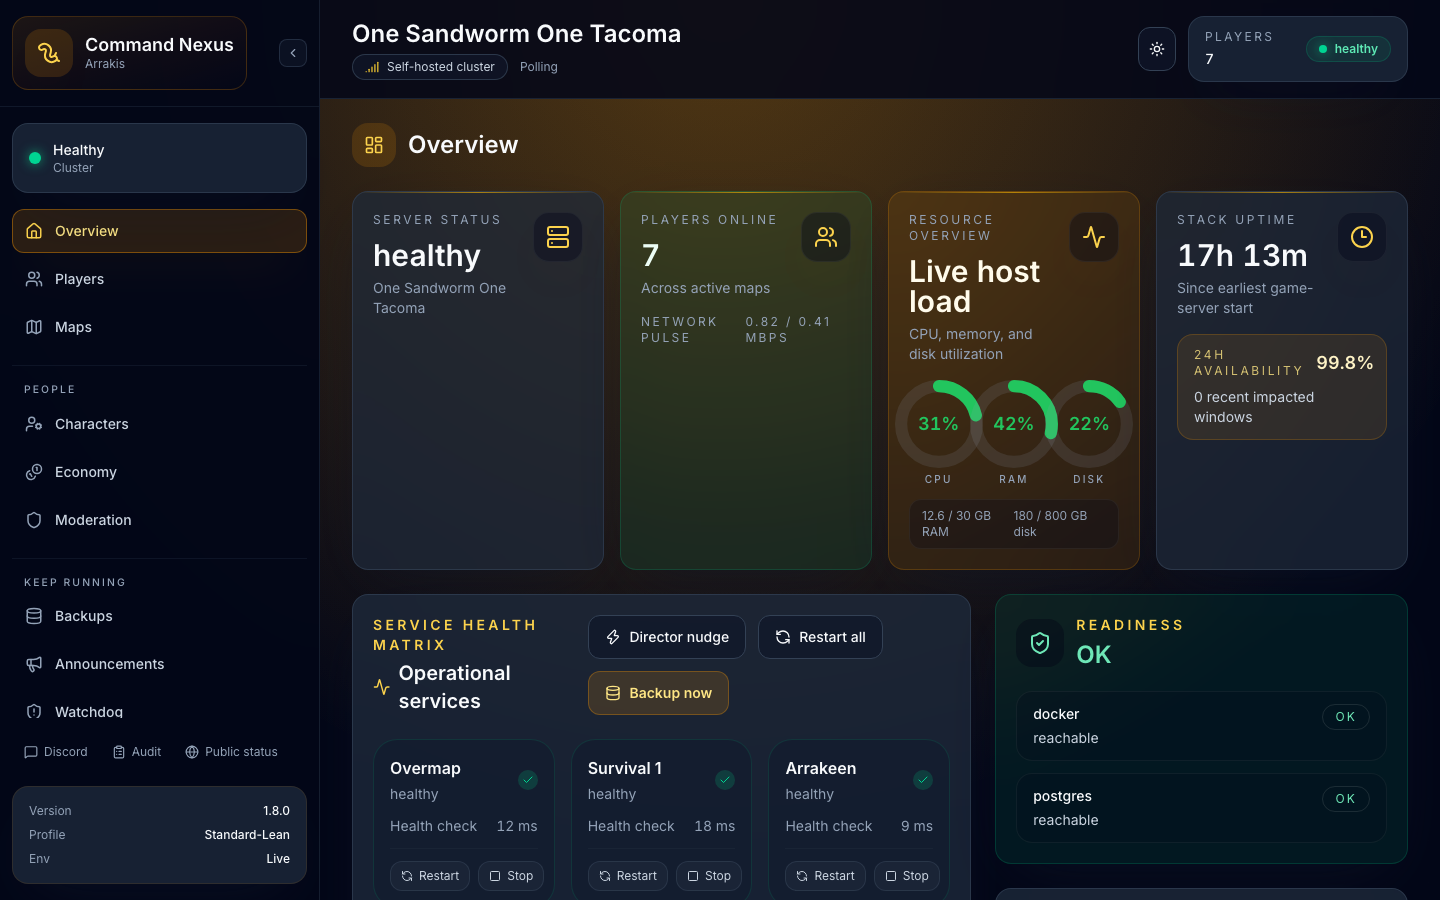
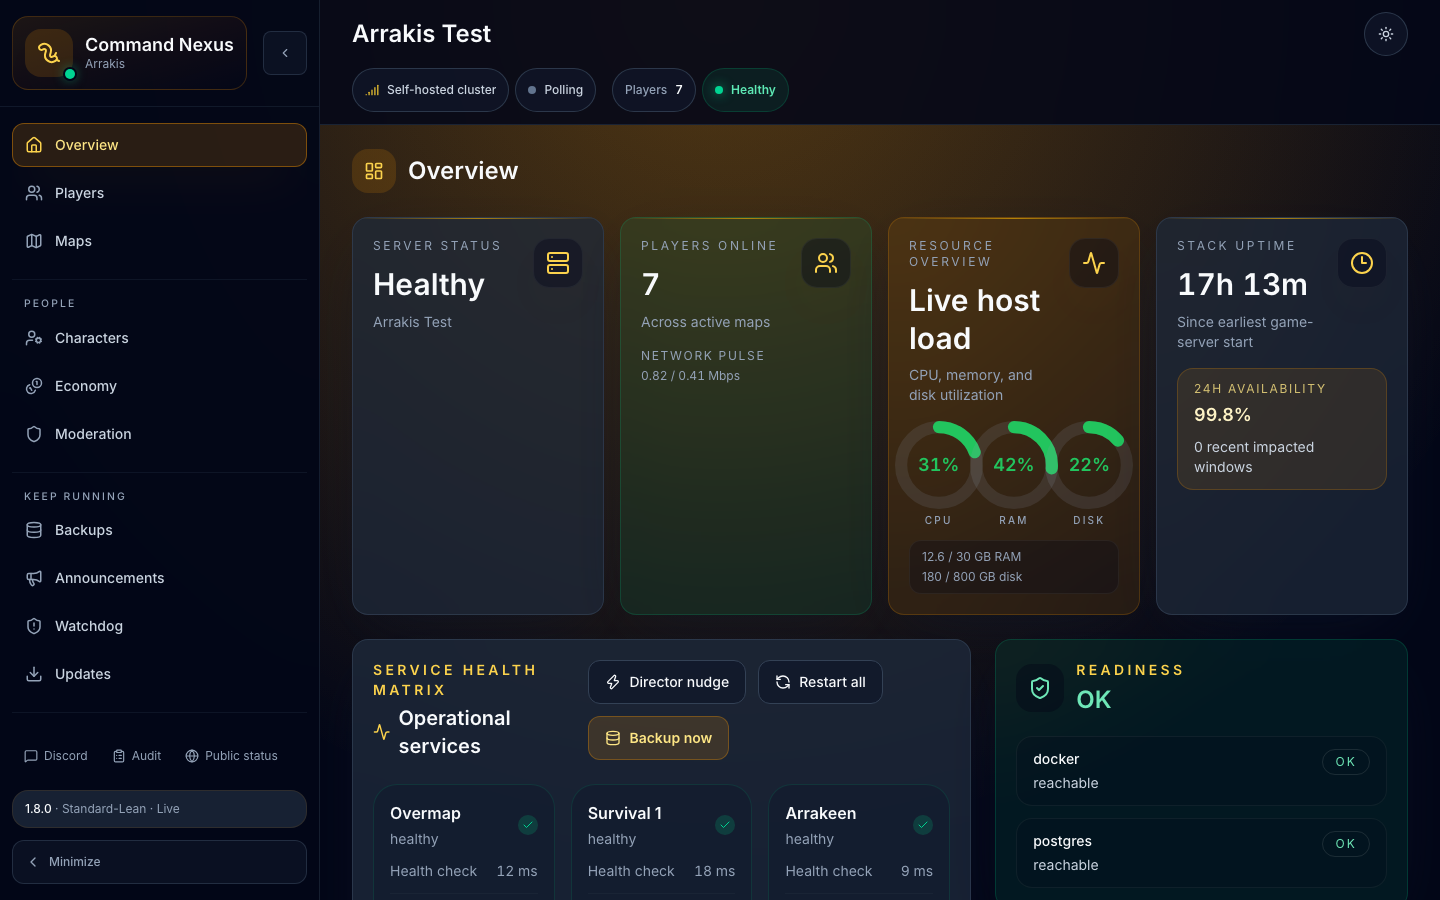
Remove machine-specific names from the public repo.
Taking a break now requires an offsite script path at install time instead of shipping a home directory, hostname, or offsite machine name. README and a Windows batch file document a generic Linux SteamCMD download.

diff --git a/dashboard/frontend/src/components/TakingABreakPanel.tsx b/dashboard/frontend/src/components/TakingABreakPanel.tsx
@@ -85,7 +85,7 @@ export function TakingABreakPanel() {
     setError(null);
     try {
       await apiClient.startTakingABreak(warningMinutes);
-      toast('Taking a break started. This page stays up until the NUC powers off.', 'success');
+      toast('Taking a break started. This page stays up until the host powers off.', 'success');
       setPolling(true);
     } catch (err) {
       const msg = err instanceof Error ? err.message : 'Unknown error';
@@ -107,9 +107,9 @@ export function TakingABreakPanel() {
             Taking a break
           </h2>
           <p className="mt-2 max-w-3xl text-sm text-th-text-m">
-            Warns anyone online, saves the world on this machine, copies that save to cudachu, then powers the NUC off.
+            Warns anyone online, saves the world on this machine, copies that save offsite, then powers the host off.
             Fuel and storms stay frozen while it is off. Turning the power button on later starts the same world.
-            This does not update the game or delete bases. If either save fails, the NUC stays on.
+            This does not update the game or delete bases. If either save fails, the host stays on.
           </p>
         </div>
         <span
@@ -160,13 +160,13 @@ export function TakingABreakPanel() {
       {unavailable && (
         <p className="mt-3 rounded-xl border border-th-border bg-th-surface-s/60 px-3 py-2 text-sm text-th-text-s">
           This machine cannot power itself off from the dashboard yet. On the host, run{' '}
-          <code className="rounded bg-th-surface/60 px-1">sudo ./scripts/install-taking-a-break.sh</code>.
+          <code className="break-all rounded bg-th-surface/60 px-1">sudo DUNE_OFFSITE_BACKUP=/usr/local/sbin/dune-offsite-backup.sh ./scripts/install-taking-a-break.sh</code>.
         </p>
       )}
 
       {poweredOff && (
         <p className="mt-3 rounded-xl border border-amber-500/40 bg-amber-500/10 px-3 py-2 text-sm text-amber-800 dark:text-amber-100">
-          The save was copied. The NUC is powering off, and this page will disconnect. Turn the power button on when you want to play. The world starts itself.
+          The save was copied. The host is powering off, and this page will disconnect. Turn the power button on when you want to play. The world starts itself.
         </p>
       )}
 
@@ -196,8 +196,8 @@ export function TakingABreakPanel() {
         title={warningMinutes === 0 ? 'Power off now?' : `Warn for ${warningMinutes} minute${warningMinutes === 1 ? '' : 's'}, then power off?`}
         message={
           warningMinutes === 0
-            ? 'Players are disconnected now. The world is saved here and copied to cudachu. If either save fails, the NUC stays on. Otherwise daspicebox powers off. Turn it back on when you want to play.'
-            : `Players get a ${warningMinutes} minute warning. The world is saved here and copied to cudachu. If either save fails, the NUC stays on. Otherwise daspicebox powers off. Turn it back on when you want to play.`
+            ? 'Players are disconnected now. The world is saved here and copied offsite. If either save fails, the host stays on. Otherwise this machine powers off. Turn it back on when you want to play.'
+            : `Players get a ${warningMinutes} minute warning. The world is saved here and copied offsite. If either save fails, the host stays on. Otherwise this machine powers off. Turn it back on when you want to play.`
         }
         confirmLabel="Back up and power off"
         variant="danger"

diff --git a/dashboard/frontend/src/lib/grant-catalog.ts b/dashboard/frontend/src/lib/grant-catalog.ts
@@ -642,7 +642,7 @@ export const GRANT_GROUPS: GrantGroup[] = [
     banner: "Seen on this world",
     bannerIcon: "📡",
     title: "New from this world",
-    description: "Highest-signal spawnables first seen in live dune.items on daspicebox. Additional live IDs now sit in their real armor, weapon, tool, and schematic groups.",
+    description: "Highest-signal spawnables first seen in live dune.items on a running server. Additional live IDs now sit in their real armor, weapon, tool, and schematic groups.",
     columns: "grid-cols-2 md:grid-cols-3",
     entries: [
       { kind: 'item', templateId: "CHOAMSword_3", quantity: 1, label: "Regis CHOAM Sword" },

diff --git a/dashboard/backend/services/taking_a_break.py b/dashboard/backend/services/taking_a_break.py
@@ -211,7 +211,7 @@ async def run_taking_a_break(
             if outcome == "failed":
                 BREAK_STATE["phase"] = "error"
                 BREAK_STATE["error"] = (
-                    f"Could not stop {name}. The NUC stayed on. "
+                    f"Could not stop {name}. The host stayed on. "
                     "Some game servers may already be stopped."
                 )
                 await step(BREAK_STATE["error"])
@@ -229,7 +229,7 @@ async def run_taking_a_break(
             logger.exception("Local break backup failed")
             BREAK_STATE["phase"] = "error"
             BREAK_STATE["error"] = (
-                "Local backup failed. The NUC stayed on. "
+                "Local backup failed. The host stayed on. "
                 "Some game servers may already be stopped. Start the server again from this page."
             )
             await step(BREAK_STATE["error"])
@@ -256,13 +256,13 @@ async def run_taking_a_break(
                 return
             elif status == "error":
                 BREAK_STATE["phase"] = "error"
-                BREAK_STATE["error"] = message or "Offsite backup failed. The NUC stayed on."
+                BREAK_STATE["error"] = message or "Offsite backup failed. The host stayed on."
                 await step(BREAK_STATE["error"])
                 return
             if not saw_ack and time.monotonic() > deadline_ack:
                 clear_exchange(folder)
                 BREAK_STATE["phase"] = "error"
-                BREAK_STATE["error"] = "The host helper did not start. The NUC stayed on."
+                BREAK_STATE["error"] = "The host helper did not start. The host stayed on."
                 await step(BREAK_STATE["error"])
                 return
             await asyncio.sleep(1)
@@ -273,7 +273,7 @@ async def run_taking_a_break(
     except Exception:  # noqa: BLE001
         logger.exception("Taking a break failed")
         BREAK_STATE["phase"] = "error"
-        BREAK_STATE["error"] = "Taking a break failed. The NUC stayed on. Check server logs."
+        BREAK_STATE["error"] = "Taking a break failed. The host stayed on. Check server logs."
         BREAK_STATE["details"].append({
             "ts": datetime.now(timezone.utc).isoformat(),
             "msg": BREAK_STATE["error"],

diff --git a/dashboard/backend/tests/test_taking_a_break.py b/dashboard/backend/tests/test_taking_a_break.py
@@ -78,6 +78,32 @@ class HostScriptTests(unittest.TestCase):
             env=env,
         )
 
+    def test_missing_offsite_script_does_not_power_off(self):
+        with tempfile.TemporaryDirectory() as tmp:
+            data = Path(tmp)
+            write_request(data, 5)
+            marker = data / "powered-off"
+            env = os.environ.copy()
+            env.pop("DUNE_OFFSITE_BACKUP", None)
+            env.update({
+                "DUNE_BREAK_DATA": str(data),
+                "DUNE_BREAK_RUN": str(data / "run"),
+                "DUNE_BREAK_SHUTDOWN_CMD": f"touch {marker}",
+                "DUNE_BREAK_MAX_AGE_SECONDS": "900",
+            })
+            completed = subprocess.run(
+                ["bash", str(HOST)],
+                check=False,
+                capture_output=True,
+                text=True,
+                env=env,
+            )
+            self.assertNotEqual(completed.returncode, 0, completed.stderr)
+            self.assertFalse(marker.exists())
+            result = json.loads((data / "taking-a-break.result").read_text(encoding="utf-8"))
+            self.assertEqual(result["status"], "error")
+            self.assertIn("The host stayed on", result["message"])
+
     def test_offsite_failure_does_not_power_off(self):
         with tempfile.TemporaryDirectory() as tmp:
             data = Path(tmp)

diff --git a/dashboard/backend/tests/test_runtime_env.py b/dashboard/backend/tests/test_runtime_env.py
@@ -12,9 +12,9 @@ class RuntimeEnvTests(unittest.TestCase):
     def test_world_name_reads_env_file_not_import_time(self):
         with tempfile.TemporaryDirectory() as tmp:
             path = Path(tmp) / ".env"
-            path.write_text('WORLD_NAME="One Sandworm One Tacoma"\n', encoding="utf-8")
+            path.write_text('WORLD_NAME="Arrakis Test"\n', encoding="utf-8")
             with patch.object(env_file, "ENV_PATH", str(path)), patch.dict(os.environ, {"WORLD_NAME": "", "DUNE_WORLD_NAME": ""}, clear=False):
-                self.assertEqual(live_world_name(), "One Sandworm One Tacoma")
+                self.assertEqual(live_world_name(), "Arrakis Test")
                 path.write_text('WORLD_NAME="Renamed Sietch"\n', encoding="utf-8")
                 self.assertEqual(live_world_name(), "Renamed Sietch")
 

diff --git a/CHANGELOG.md b/CHANGELOG.md
@@ -8,7 +8,12 @@ The format is based on [Keep a Changelog](https://keepachangelog.com/).
 
 ### Added
 
-- System page **Taking a break** warns players, saves the world locally, asks the host to copy it offsite, then powers the machine off. The host stays on if either backup fails. Install the helper with `sudo ./scripts/install-taking-a-break.sh`. Turning the machine on later starts the same world through `dune-stack.service`
+- System page **Taking a break** warns players, saves the world locally, asks the host to copy it offsite, then powers the machine off. The host stays on if either backup fails. Install the helper with `sudo DUNE_OFFSITE_BACKUP=/usr/local/sbin/dune-offsite-backup.sh ./scripts/install-taking-a-break.sh`. Turning the machine on later starts the same world through `dune-stack.service`
+- `scripts/download-dedicated-server.bat` downloads AppID 4754530 with `+@sSteamCmdForcePlatformType linux`, so Windows SteamCMD does not fetch the Hyper-V edition
+
+### Changed
+
+- Taking a break no longer embeds a hostname, a home directory, or an offsite machine name. `DUNE_OFFSITE_BACKUP` is required at install time and is written only into the host systemd unit
 
 ### Fixed
 
@@ -28,9 +33,9 @@ The format is based on [Keep a Changelog](https://keepachangelog.com/).
 - Item grants clone live `stats` (including `FCustomizationStats`) from a sibling/family row so never-seen catalog parts like Sandbike treads actually instantiate; backpack slot picks lock the inventory and expand `max_item_count` instead of writing invisible overflow
 - Full vehicle kits grant enough locomotion parts to assemble: sandbike 3 treads, buggy 4 treads, sandcrawler 2 treads; Scout 4 wings, Assault 6, Carrier 8 plus 2 side hulls and 2 tail hulls
 - Public status and overview `mapsActive` count Arrakeen, Harko Village, Deep Desert, and story maps, not only Survival + Overmap
-- Character roster reads `currency_id = 'Solaris'` (1.5 enum) instead of integer `1`, so Funcom names like Manaiakalani show again instead of fallback `Character 1`
+- Character roster reads `currency_id = 'Solaris'` (1.5 enum) instead of integer `1`, so custom character names show again instead of fallback `Character 1`
 - Characters page uses more space between roster, editor, and grant groups; grant category chips wrap
-- Operator chip (`Max · operator`), sign-out, and theme sit top-right of the title bar; region / Live / Players / health stay on the status row
+- Operator chip (signed-in name and role), sign-out, and theme sit top-right of the title bar; region / Live / Players / health stay on the status row
 - Header chips group as connection / identity / cluster with wider gaps between groups; theme and sign-out use a square `.header-chip-icon` so the glyph is centered
 - Map POI pins, player-table sort headers, and character grant category chips are 44px hit targets
 - Sidebar no longer repeats cluster health as a labeled panel; the header pill stays, and a status dot sits on the logo
@@ -73,7 +78,7 @@ The format is based on [Keep a Changelog](https://keepachangelog.com/).
 - `docs/DESIGN.md` light tokens match the parchment CSS instead of leftover slate-50 values
 - REST `/status` and SSE ChangeDetector share `services.health_status.service_to_frontend`; connection-tracker join/leave math lives in `player_tracker.diff_online_players`
 - Remaining dashboard pages use SWR (`useApi` is gone). Updates, host shutdown, vehicle teleport, and admin password-set use `ConfirmDialog` instead of `window.confirm` / `window.prompt`
-- Character grant buttons live in `grant-catalog.ts`. Live `dune.items` on daspicebox added spawnables: CHOAMSword_3, HarkAr7, AtreLMG5, RocketLauncher_2, SmugDmr4/5, HoltzmanShieldActiveDrain3, Radiation_Suit_T5, Durable Blood Sack Mk4, CHOAM Light Mk5 gloves/boots, 50 Spice Melange on Quick Grants
+- Character grant buttons live in `grant-catalog.ts`. Live `dune.items` on a running server added spawnables: CHOAMSword_3, HarkAr7, AtreLMG5, RocketLauncher_2, SmugDmr4/5, HoltzmanShieldActiveDrain3, Radiation_Suit_T5, Durable Blood Sack Mk4, CHOAM Light Mk5 gloves/boots, 50 Spice Melange on Quick Grants
 - Grant catalog now covers the remaining live named IDs: CHOAM Heavy Mk1/3/4 sets, CHOAM Light Mk6 casing, Efficient Stillsuit Mk5, HarkAr6, AtreLMG4, RocketLauncher_3, unique sidearms/shotguns, mid-tier vehicle parts, missing tools/emotes/schematics (including three live schematic IDs newly named in `KNOWN_TEMPLATES`)
 - Dashboard pages under the shell use `h2` so the server name stays the only `h1`. Public status shows the real Funcom build tag instead of a fake 100% availability
 - Connection tracker loop lives in `player_tracker.track_player_connections` with the join/leave math

diff --git a/README.md b/README.md
@@ -103,6 +103,25 @@ Two settings are worth knowing about:
 sqlite3 data/dashboard.db "DELETE FROM admin_users;"
 ```
 
+## Taking a break
+
+Use this when the world should sit still for days or weeks. On the System page, **Back up and power off** warns anyone online, stops the game, writes a local backup while Postgres is still up, then asks the host to copy that save offsite and power off. The machine stays on if either copy fails. Docker volumes are not deleted, `SURVIVAL_RESET_SEED` is not changed, and the game is not updated.
+
+Install the helper once, as root, with the path to your own offsite script:
+
+```bash
+sudo DUNE_OFFSITE_BACKUP=/usr/local/sbin/dune-offsite-backup.sh ./scripts/install-taking-a-break.sh
+```
+
+`DUNE_OFFSITE_BACKUP` must be an executable absolute path. The script should copy the world while Postgres is still running and exit 0 only when that copy succeeded. The installer writes the path into the systemd unit on that host. It is not stored in this repository.
+
+| Variable | Default | Purpose |
+| --- | --- | --- |
+| `DUNE_BREAK_UNIT` | `dune-taking-a-break` | systemd unit name |
+| `DUNE_BREAK_RUN` | `/run/dune-taking-a-break` | tmpfs directory for the in-flight request |
+
+Turning the machine on later starts the same world when `dune-stack.service` is enabled (`sudo ./dune install-service`). Moving the hardware still uses `./dune shutdown-host --confirm`, which stops the stack and leaves the host running for you to power off.
+
 ## Deployment Profiles
 
 | Profile | Best for | Typical maps | Recommended RAM |
@@ -138,6 +157,14 @@ cd arrakis-command-nexus
 # 3. Start the battlegroup
 ./dune start
 ```
+
+On Windows, download the Linux package from `cmd` instead of the `steamcmd` line above:
+
+```bat
+scripts\download-dedicated-server.bat
+```
+
+That batch file passes `+@sSteamCmdForcePlatformType linux`. Without it, Windows SteamCMD fetches Funcom's Hyper-V edition (a `.vhdx` and a launcher) instead of the Docker tarballs. Copy the folder to Linux or WSL2, then run `./dune` there. Day-to-day server commands do not run from PowerShell.
 
 Typical dashboard endpoints after setup:
 

diff --git a/docs/TROUBLESHOOTING.md b/docs/TROUBLESHOOTING.md
@@ -770,15 +770,16 @@ under normal conditions. Simply retry after a few minutes.
 
 **Recommended workflow (Windows operator, Linux host):**
 
-If you're downloading from a Windows machine and pushing the result to a separate Linux
-host, a local (not repo-tracked) PowerShell helper script that wraps SteamCMD and rsyncs
-the result over is a convenient pattern. Two important details
-that aren't obvious if you write your own:
+If you're downloading from a Windows machine, run
+[`scripts/download-dedicated-server.bat`](../scripts/download-dedicated-server.bat).
+It wraps SteamCMD and writes the Linux package into a folder you choose
+(default: `dedicated-server` under the current directory). Copy that folder
+to the Linux host yourself. Two important details:
 
 1. **Force Linux platform.** Without `+@sSteamCmdForcePlatformType linux`,
    SteamCMD running on Windows downloads the **Hyper-V edition** of the
    self-hosted server (`.vhdx` virtual disk, `.bat` launcher, no Docker
-   tarballs). The script does this automatically.
+   tarballs). The batch file does this automatically.
 
 2. **Re-tag images on load.** Recent Funcom builds ship images namespaced as
    `registry.funcom.com/funcom/self-hosting/<name>:<tag>`, but our compose

diff --git a/docs/DESIGN.md b/docs/DESIGN.md
@@ -134,7 +134,7 @@ Variant colors follow the action palette (red for destructive, green for positiv
 - Server health indicator dot in the logo area (not a second labeled Healthy panel; the header chip is the readable status)
 
 ### Header chrome
-World name is left; operator (`Max · operator`), sign-out, and theme sit top-right like a normal admin app. Connection (region + Live) and cluster (Players + health) share `.header-chip` (`h-11`) on the row under the title. Icon-only controls use `.header-chip-icon` (`h-11 w-11 p-0`) so the glyph is centered.
+World name is left; operator (signed-in name and role), sign-out, and theme sit top-right like a normal admin app. Connection (region + Live) and cluster (Players + health) share `.header-chip` (`h-11`) on the row under the title. Icon-only controls use `.header-chip-icon` (`h-11 w-11 p-0`) so the glyph is centered.
 
 ### Scrollbars
 Thin overlay bars (`8px`, transparent track). Thumb is invisible until the overflowing surface is hovered or focused so Windows does not paint a 16px classic bar over the glass chrome. Do not set `scrollbar-gutter: stable` — it reserves a dead strip even when the thumb is hidden.

diff --git a/docs/OPERATIONS.md b/docs/OPERATIONS.md
@@ -259,6 +259,21 @@ Scheduled backups are controlled by `.env`:
 
 You can also view or update the schedule from the dashboard Backups page.
 
+#### Taking a break
+
+The System page control **Back up and power off** is the multi-day absence path.
+It warns players, writes a local backup while Postgres is still up, then asks
+the host helper to copy that save offsite and power off. The machine stays on
+if either copy fails. Install it with your own script path:
+
+```bash
+sudo DUNE_OFFSITE_BACKUP=/usr/local/sbin/dune-offsite-backup.sh ./scripts/install-taking-a-break.sh
+```
+
+That path is stored in the systemd unit on the host. It is not part of this
+repository. Turning the machine on later starts the same world when
+`dune-stack.service` is enabled.
+
 #### Restore
 
 Restore from the dashboard Backups page or run the restore helper manually:

diff --git a/docs/QUICKSTART.md b/docs/QUICKSTART.md
@@ -89,6 +89,11 @@ the dashboard's "Apply Update") relies on this and always logs in anonymously:
 steamcmd +login anonymous +app_update 4754530 validate +quit
 ```
 
+On Windows, run `scripts\download-dedicated-server.bat` from `cmd` instead. It
+passes `+@sSteamCmdForcePlatformType linux` so SteamCMD does not download the
+Hyper-V edition. Copy the resulting folder to the Linux or WSL2 host, then
+continue there. Do not run the dedicated server from PowerShell.
+
 Keep note of the folder that contains the downloaded tarballs or extracted server files. The setup wizard will ask for it.
 
 ## 3. Clone this repository
